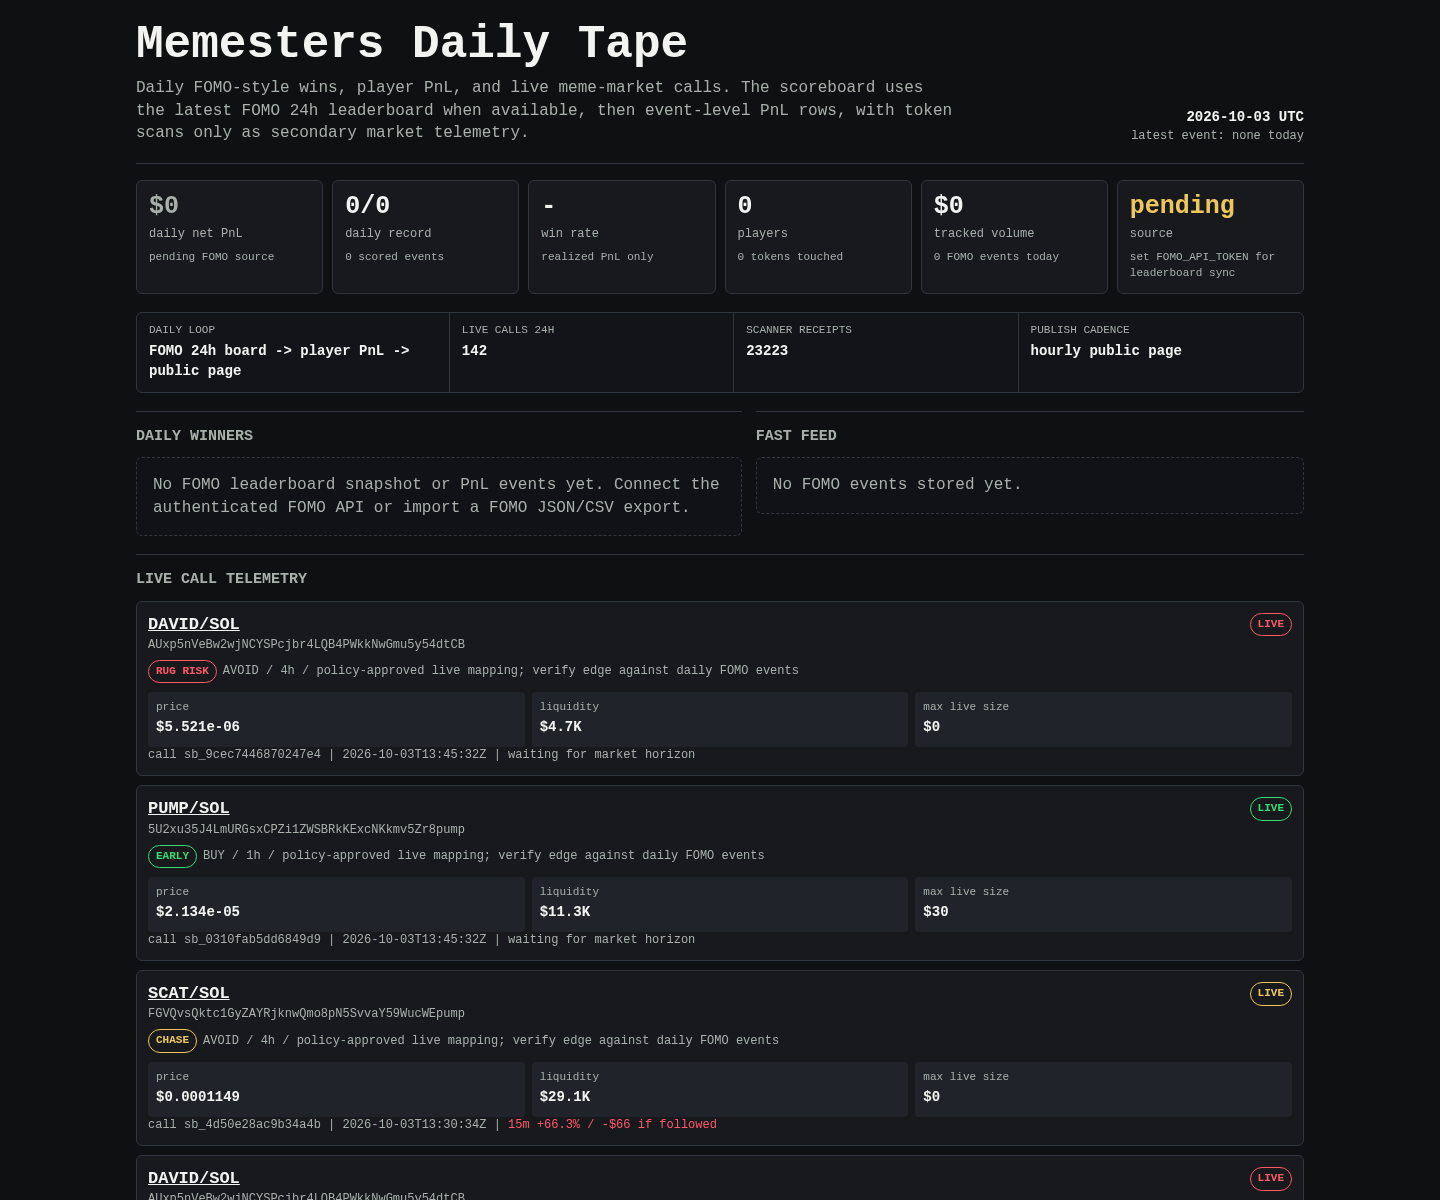
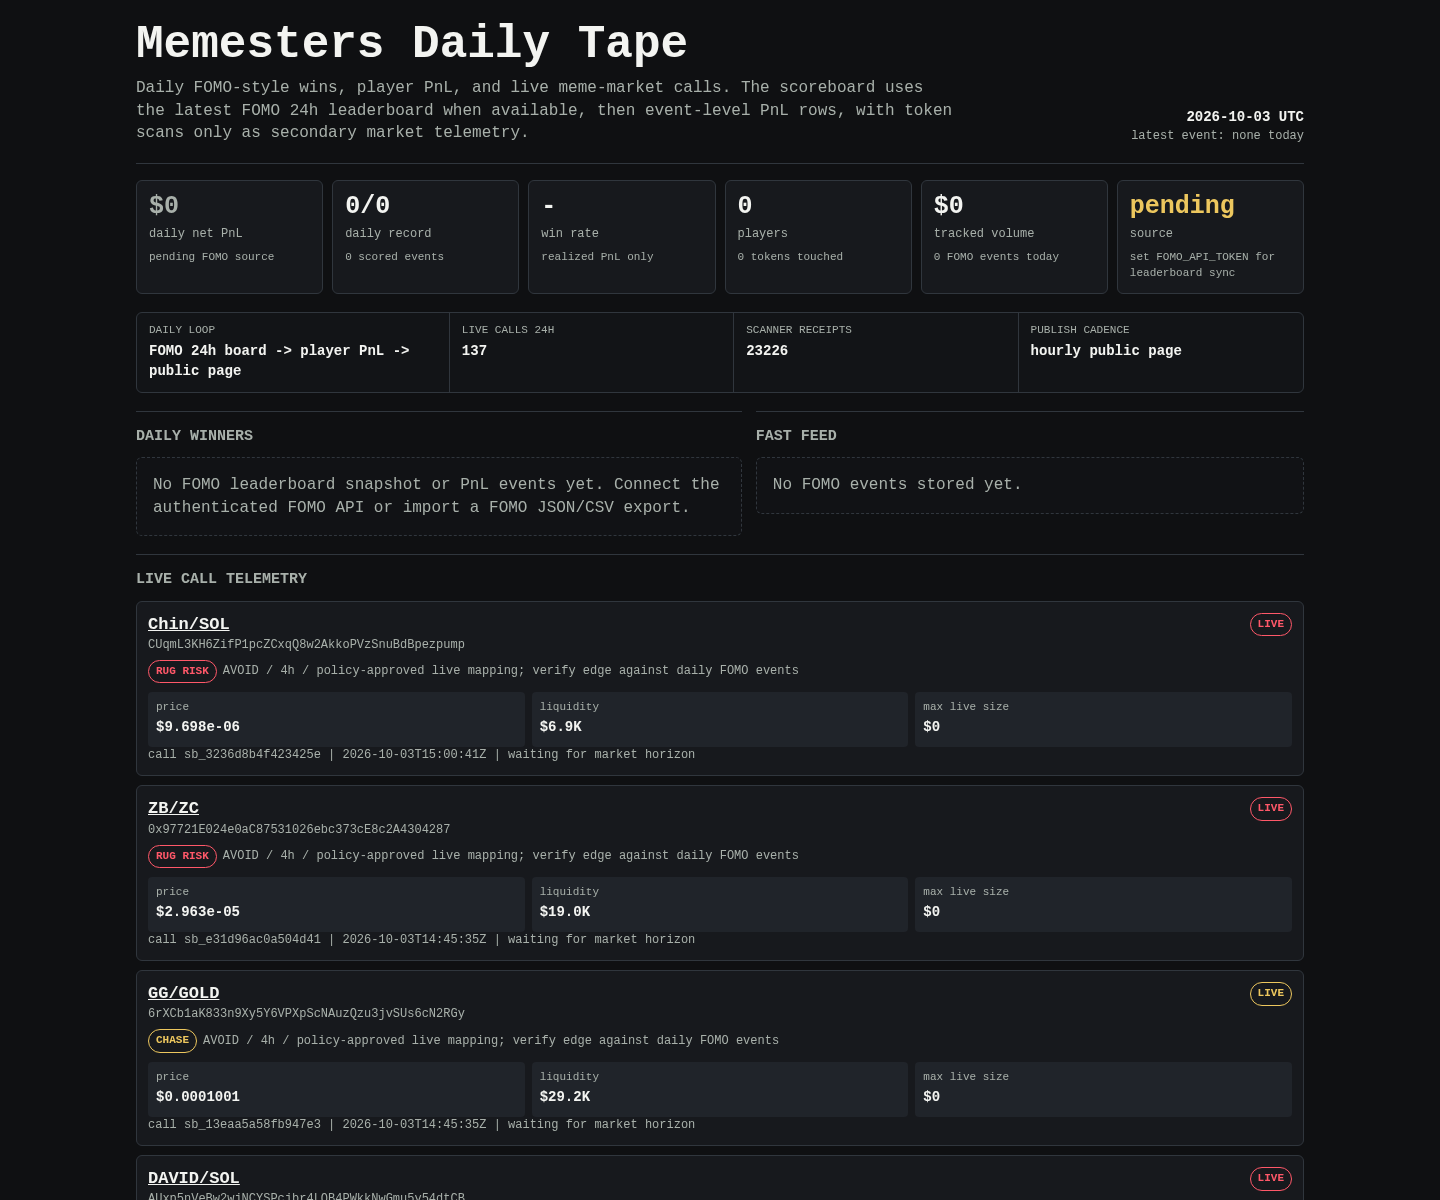
Update Memesters scoreboard

diff --git a/memesters/index.html b/memesters/index.html
@@ -149,8 +149,8 @@
 
     <div class="rail" aria-label="live operating loop">
       <div><span>daily loop</span><b>FOMO 24h board -> player PnL -> public page</b></div>
-      <div><span>live calls 24h</span><b>142</b></div>
-      <div><span>scanner receipts</span><b>23223</b></div>
+      <div><span>live calls 24h</span><b>137</b></div>
+      <div><span>scanner receipts</span><b>23226</b></div>
       <div><span>publish cadence</span><b>hourly public page</b></div>
     </div>
 
@@ -171,6 +171,69 @@
     <article class="receipt">
       <div class="receipt-head">
         <div>
+          <div class="pair"><a href="https://dexscreener.com/solana/7fqwpp4kdxbjblrgsspztdungadzkixrottd5m7jhjbm">Chin/SOL</a></div>
+          <div class="addr">CUqmL3KH6ZifP1pcZCxqQ8w2AkkoPVzSnuBdBpezpump</div>
+          <div class="addr policy-line">
+            <span class="badge rug-risk">RUG RISK</span>
+            <span>AVOID / 4h / policy-approved live mapping; verify edge against daily FOMO events</span>
+          </div>
+        </div>
+        <span class="badge rug-risk">LIVE</span>
+      </div>
+      <div class="receipt-grid">
+        <div class="kv"><span>price</span><b>$9.698e-06</b></div>
+        <div class="kv"><span>liquidity</span><b>$6.9K</b></div>
+        <div class="kv"><span>max live size</span><b>$0</b></div>
+      </div>
+      <div class="outcomes">call sb_3236d8b4f423425e | 2026-10-03T15:00:41Z | waiting for market horizon</div>
+    </article>
+    
+
+    <article class="receipt">
+      <div class="receipt-head">
+        <div>
+          <div class="pair"><a href="https://dexscreener.com/ethereum/0x0b9fa606bf1dd0bb60d82138671d78a6fe6712ef23a19f9cbf86d35e2f72c270">ZB/ZC</a></div>
+          <div class="addr">0x97721E024e0aC87531026ebc373cE8c2A4304287</div>
+          <div class="addr policy-line">
+            <span class="badge rug-risk">RUG RISK</span>
+            <span>AVOID / 4h / policy-approved live mapping; verify edge against daily FOMO events</span>
+          </div>
+        </div>
+        <span class="badge rug-risk">LIVE</span>
+      </div>
+      <div class="receipt-grid">
+        <div class="kv"><span>price</span><b>$2.963e-05</b></div>
+        <div class="kv"><span>liquidity</span><b>$19.0K</b></div>
+        <div class="kv"><span>max live size</span><b>$0</b></div>
+      </div>
+      <div class="outcomes">call sb_e31d96ac0a504d41 | 2026-10-03T14:45:35Z | waiting for market horizon</div>
+    </article>
+    
+
+    <article class="receipt">
+      <div class="receipt-head">
+        <div>
+          <div class="pair"><a href="https://dexscreener.com/solana/hekmpbahzxz13ia6zrzdmqkvy9twysx2wegdrexj9jht">GG/GOLD</a></div>
+          <div class="addr">6rXCb1aK833n9Xy5Y6VPXpScNAuzQzu3jvSUs6cN2RGy</div>
+          <div class="addr policy-line">
+            <span class="badge chase">CHASE</span>
+            <span>AVOID / 4h / policy-approved live mapping; verify edge against daily FOMO events</span>
+          </div>
+        </div>
+        <span class="badge chase">LIVE</span>
+      </div>
+      <div class="receipt-grid">
+        <div class="kv"><span>price</span><b>$0.0001001</b></div>
+        <div class="kv"><span>liquidity</span><b>$29.2K</b></div>
+        <div class="kv"><span>max live size</span><b>$0</b></div>
+      </div>
+      <div class="outcomes">call sb_13eaa5a58fb947e3 | 2026-10-03T14:45:35Z | waiting for market horizon</div>
+    </article>
+    
+
+    <article class="receipt">
+      <div class="receipt-head">
+        <div>
           <div class="pair"><a href="https://dexscreener.com/solana/fgzaqahmfgnvbtg17i2xseecqxulf7hkrbyflvbrgr7u">DAVID/SOL</a></div>
           <div class="addr">AUxp5nVeBw2wjNCYSPcjbr4LQB4PWkkNwGmu5y54dtCB</div>
           <div class="addr policy-line">
@@ -185,7 +248,7 @@
         <div class="kv"><span>liquidity</span><b>$4.7K</b></div>
         <div class="kv"><span>max live size</span><b>$0</b></div>
       </div>
-      <div class="outcomes">call sb_9cec7446870247e4 | 2026-10-03T13:45:32Z | waiting for market horizon</div>
+      <div class="outcomes">call sb_9cec7446870247e4 | 2026-10-03T13:45:32Z | <span class="positive">15m -9.1% / +$9 if followed</span> | <span class="positive">1h -17.5% / +$17 if followed</span></div>
     </article>
     
 
@@ -206,7 +269,7 @@
         <div class="kv"><span>liquidity</span><b>$11.3K</b></div>
         <div class="kv"><span>max live size</span><b>$30</b></div>
       </div>
-      <div class="outcomes">call sb_0310fab5dd6849d9 | 2026-10-03T13:45:32Z | waiting for market horizon</div>
+      <div class="outcomes">call sb_0310fab5dd6849d9 | 2026-10-03T13:45:32Z | <span class="negative">15m -13.1% / -$13 if followed</span> | <span class="negative">1h -15.0% / -$15 if followed</span></div>
     </article>
     
 
@@ -227,7 +290,7 @@
         <div class="kv"><span>liquidity</span><b>$29.1K</b></div>
         <div class="kv"><span>max live size</span><b>$0</b></div>
       </div>
-      <div class="outcomes">call sb_4d50e28ac9b34a4b | 2026-10-03T13:30:34Z | <span class="negative">15m +66.3% / -$66 if followed</span></div>
+      <div class="outcomes">call sb_4d50e28ac9b34a4b | 2026-10-03T13:30:34Z | <span class="negative">15m +66.3% / -$66 if followed</span> | <span class="positive">1h -96.9% / +$97 if followed</span></div>
     </article>
     
 
@@ -248,7 +311,7 @@
         <div class="kv"><span>liquidity</span><b>$9.0K</b></div>
         <div class="kv"><span>max live size</span><b>$0</b></div>
       </div>
-      <div class="outcomes">call sb_11fe8947b9f8443a | 2026-10-03T13:30:34Z | <span class="positive">15m -62.9% / +$63 if followed</span></div>
+      <div class="outcomes">call sb_11fe8947b9f8443a | 2026-10-03T13:30:34Z | <span class="positive">15m -62.9% / +$63 if followed</span> | <span class="positive">1h -67.3% / +$67 if followed</span></div>
     </article>
     
 
@@ -269,7 +332,7 @@
         <div class="kv"><span>liquidity</span><b>$45.9K</b></div>
         <div class="kv"><span>max live size</span><b>$38</b></div>
       </div>
-      <div class="outcomes">call sb_de78171b54094751 | 2026-10-03T13:15:33Z | <span class="positive">15m +1.9% / +$2 if followed</span></div>
+      <div class="outcomes">call sb_de78171b54094751 | 2026-10-03T13:15:33Z | <span class="positive">15m +1.9% / +$2 if followed</span> | <span class="positive">1h +6.4% / +$6 if followed</span></div>
     </article>
     
 
@@ -290,7 +353,7 @@
         <div class="kv"><span>liquidity</span><b>$15.1K</b></div>
         <div class="kv"><span>max live size</span><b>$0</b></div>
       </div>
-      <div class="outcomes">call sb_4926af133ca740c5 | 2026-10-03T13:15:33Z | <span class="positive">15m -45.8% / +$46 if followed</span></div>
+      <div class="outcomes">call sb_4926af133ca740c5 | 2026-10-03T13:15:33Z | <span class="positive">15m -45.8% / +$46 if followed</span> | <span class="positive">1h -58.8% / +$59 if followed</span></div>
     </article>
     
 
@@ -311,70 +374,7 @@
         <div class="kv"><span>liquidity</span><b>$6.7K</b></div>
         <div class="kv"><span>max live size</span><b>$0</b></div>
       </div>
-      <div class="outcomes">call sb_12b13d2faf8d4944 | 2026-10-03T13:00:34Z | <span class="positive">15m -30.5% / +$31 if followed</span></div>
-    </article>
-    
-
-    <article class="receipt">
-      <div class="receipt-head">
-        <div>
-          <div class="pair"><a href="https://dexscreener.com/robinhood/0x1df6c73503a2d94eca72b6b0c86371e39bb261c5">Dexter/WETH</a></div>
-          <div class="addr">0x3C24EeCe4081b132eDbe69d6261471047d7bC3af</div>
-          <div class="addr policy-line">
-            <span class="badge chase">CHASE</span>
-            <span>AVOID / 4h / policy-approved live mapping; verify edge against daily FOMO events</span>
-          </div>
-        </div>
-        <span class="badge chase">LIVE</span>
-      </div>
-      <div class="receipt-grid">
-        <div class="kv"><span>price</span><b>$0.0003281</b></div>
-        <div class="kv"><span>liquidity</span><b>$113.9K</b></div>
-        <div class="kv"><span>max live size</span><b>$0</b></div>
-      </div>
-      <div class="outcomes">call sb_1e384ea14b91428f | 2026-10-03T12:45:33Z | <span class="positive">15m -35.2% / +$35 if followed</span> | <span class="negative">1h +50.6% / -$51 if followed</span></div>
-    </article>
-    
-
-    <article class="receipt">
-      <div class="receipt-head">
-        <div>
-          <div class="pair"><a href="https://dexscreener.com/solana/gyxrzqz1nwbm1ubompkjsxqmvhabminr5yqd3x1rvvmh">SPARK/SOL</a></div>
-          <div class="addr">48TeaPLqFQBr9wf4FqHPXw2JMFNM8FCqrrRRLivMpump</div>
-          <div class="addr policy-line">
-            <span class="badge rug-risk">RUG RISK</span>
-            <span>AVOID / 4h / policy-approved live mapping; verify edge against daily FOMO events</span>
-          </div>
-        </div>
-        <span class="badge rug-risk">LIVE</span>
-      </div>
-      <div class="receipt-grid">
-        <div class="kv"><span>price</span><b>$3.513e-05</b></div>
-        <div class="kv"><span>liquidity</span><b>$15.2K</b></div>
-        <div class="kv"><span>max live size</span><b>$0</b></div>
-      </div>
-      <div class="outcomes">call sb_77208de63b284cf8 | 2026-10-03T12:45:33Z | <span class="positive">15m -92.8% / +$93 if followed</span> | <span class="positive">1h -92.9% / +$93 if followed</span></div>
-    </article>
-    
-
-    <article class="receipt">
-      <div class="receipt-head">
-        <div>
-          <div class="pair"><a href="https://dexscreener.com/robinhood/0x1df6c73503a2d94eca72b6b0c86371e39bb261c5">Dexter/WETH</a></div>
-          <div class="addr">0x3C24EeCe4081b132eDbe69d6261471047d7bC3af</div>
-          <div class="addr policy-line">
-            <span class="badge chase">CHASE</span>
-            <span>AVOID / 4h / policy-approved live mapping; verify edge against daily FOMO events</span>
-          </div>
-        </div>
-        <span class="badge chase">LIVE</span>
-      </div>
-      <div class="receipt-grid">
-        <div class="kv"><span>price</span><b>$0.0002658</b></div>
-        <div class="kv"><span>liquidity</span><b>$101.4K</b></div>
-        <div class="kv"><span>max live size</span><b>$0</b></div>
-      </div>
-      <div class="outcomes">call sb_a445b5626d2d42af | 2026-10-03T12:30:37Z | <span class="negative">15m +23.1% / -$23 if followed</span> | <span class="negative">1h +164.1% / -$164 if followed</span></div>
+      <div class="outcomes">call sb_12b13d2faf8d4944 | 2026-10-03T13:00:34Z | <span class="positive">15m -30.5% / +$31 if followed</span> | <span class="positive">1h -66.2% / +$66 if followed</span></div>
     </article>
     
     </section>
